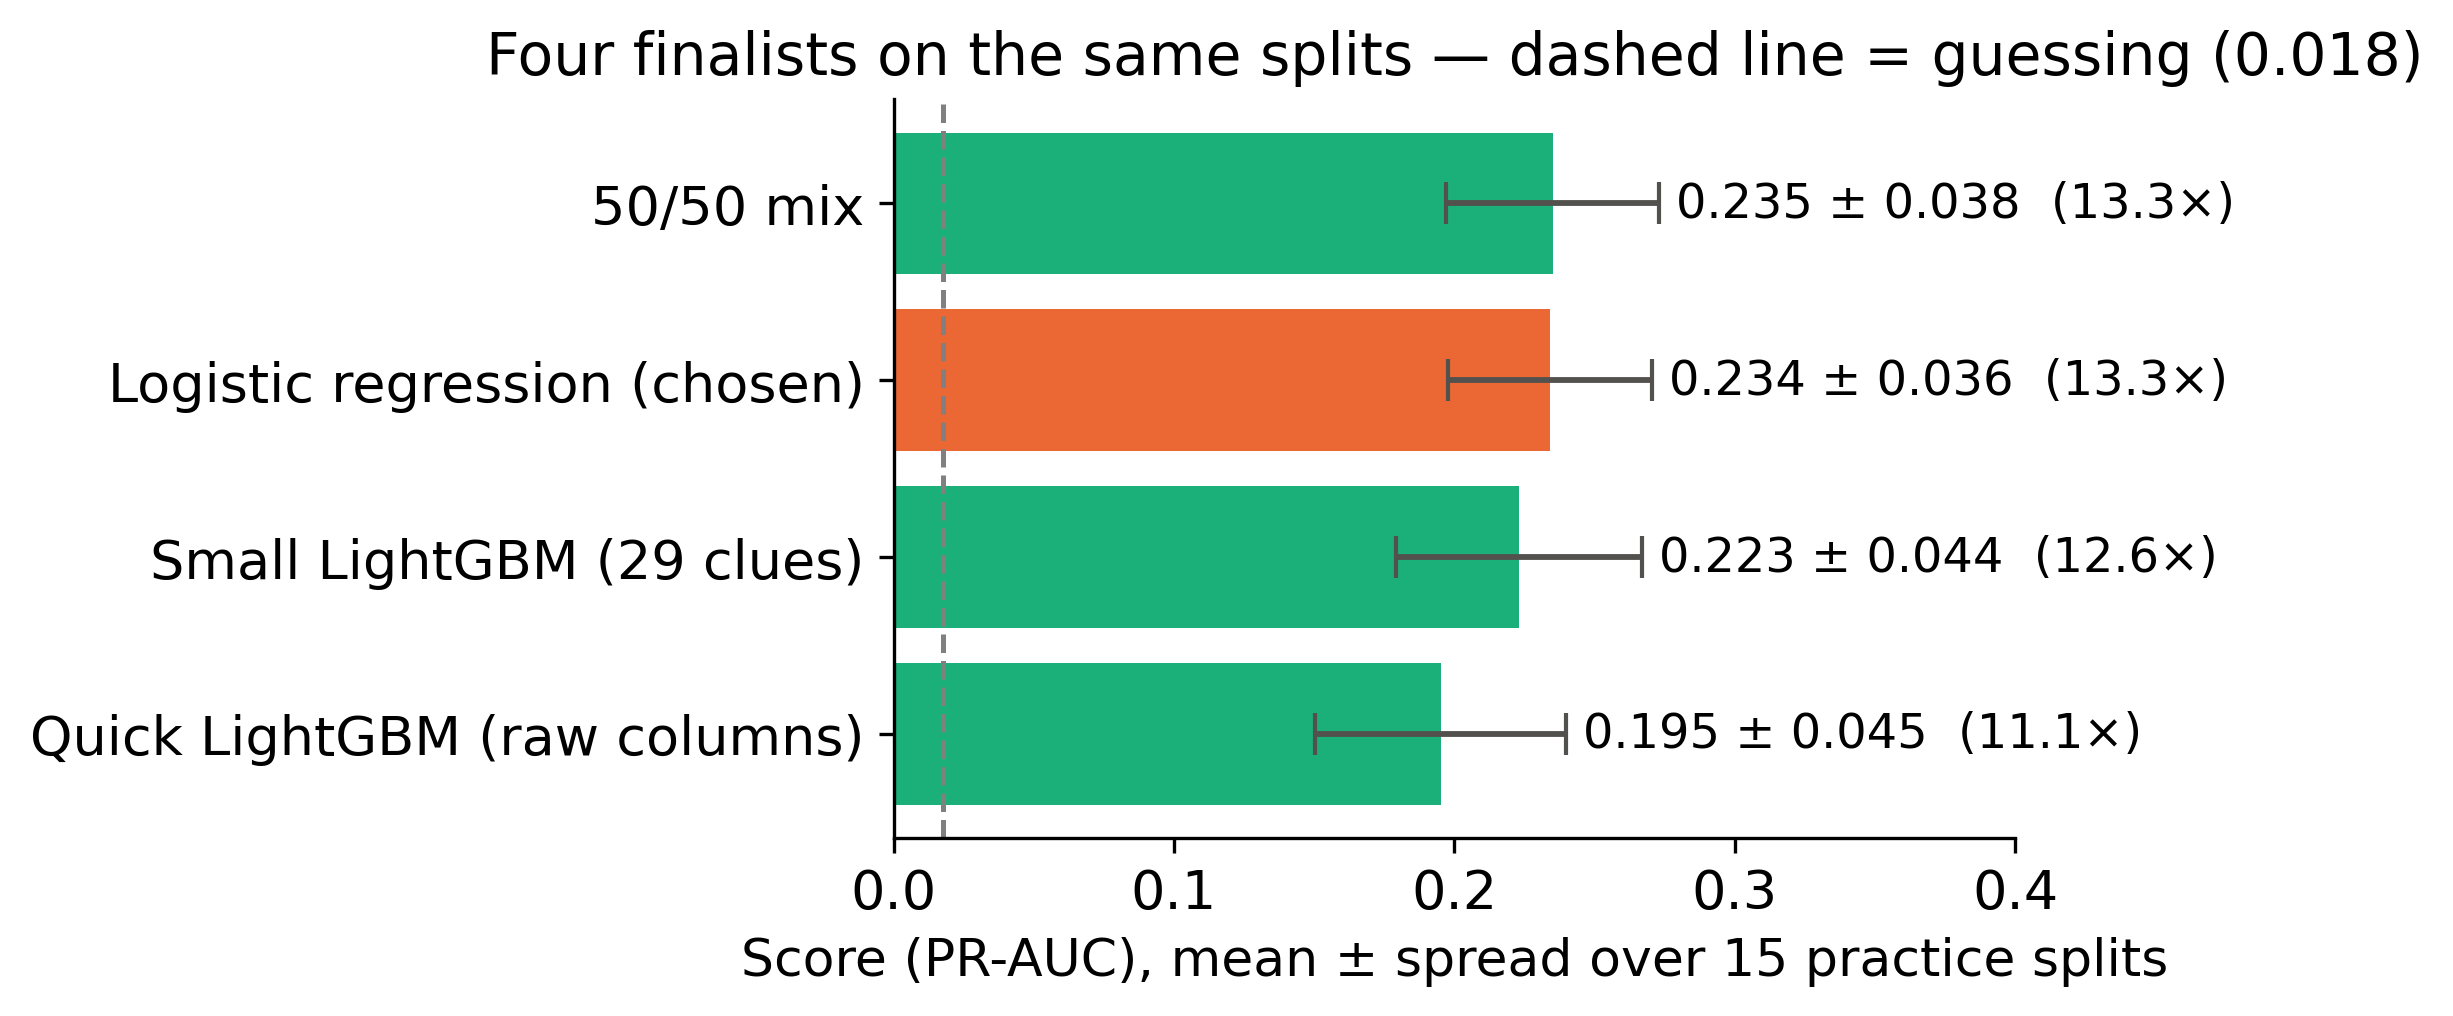
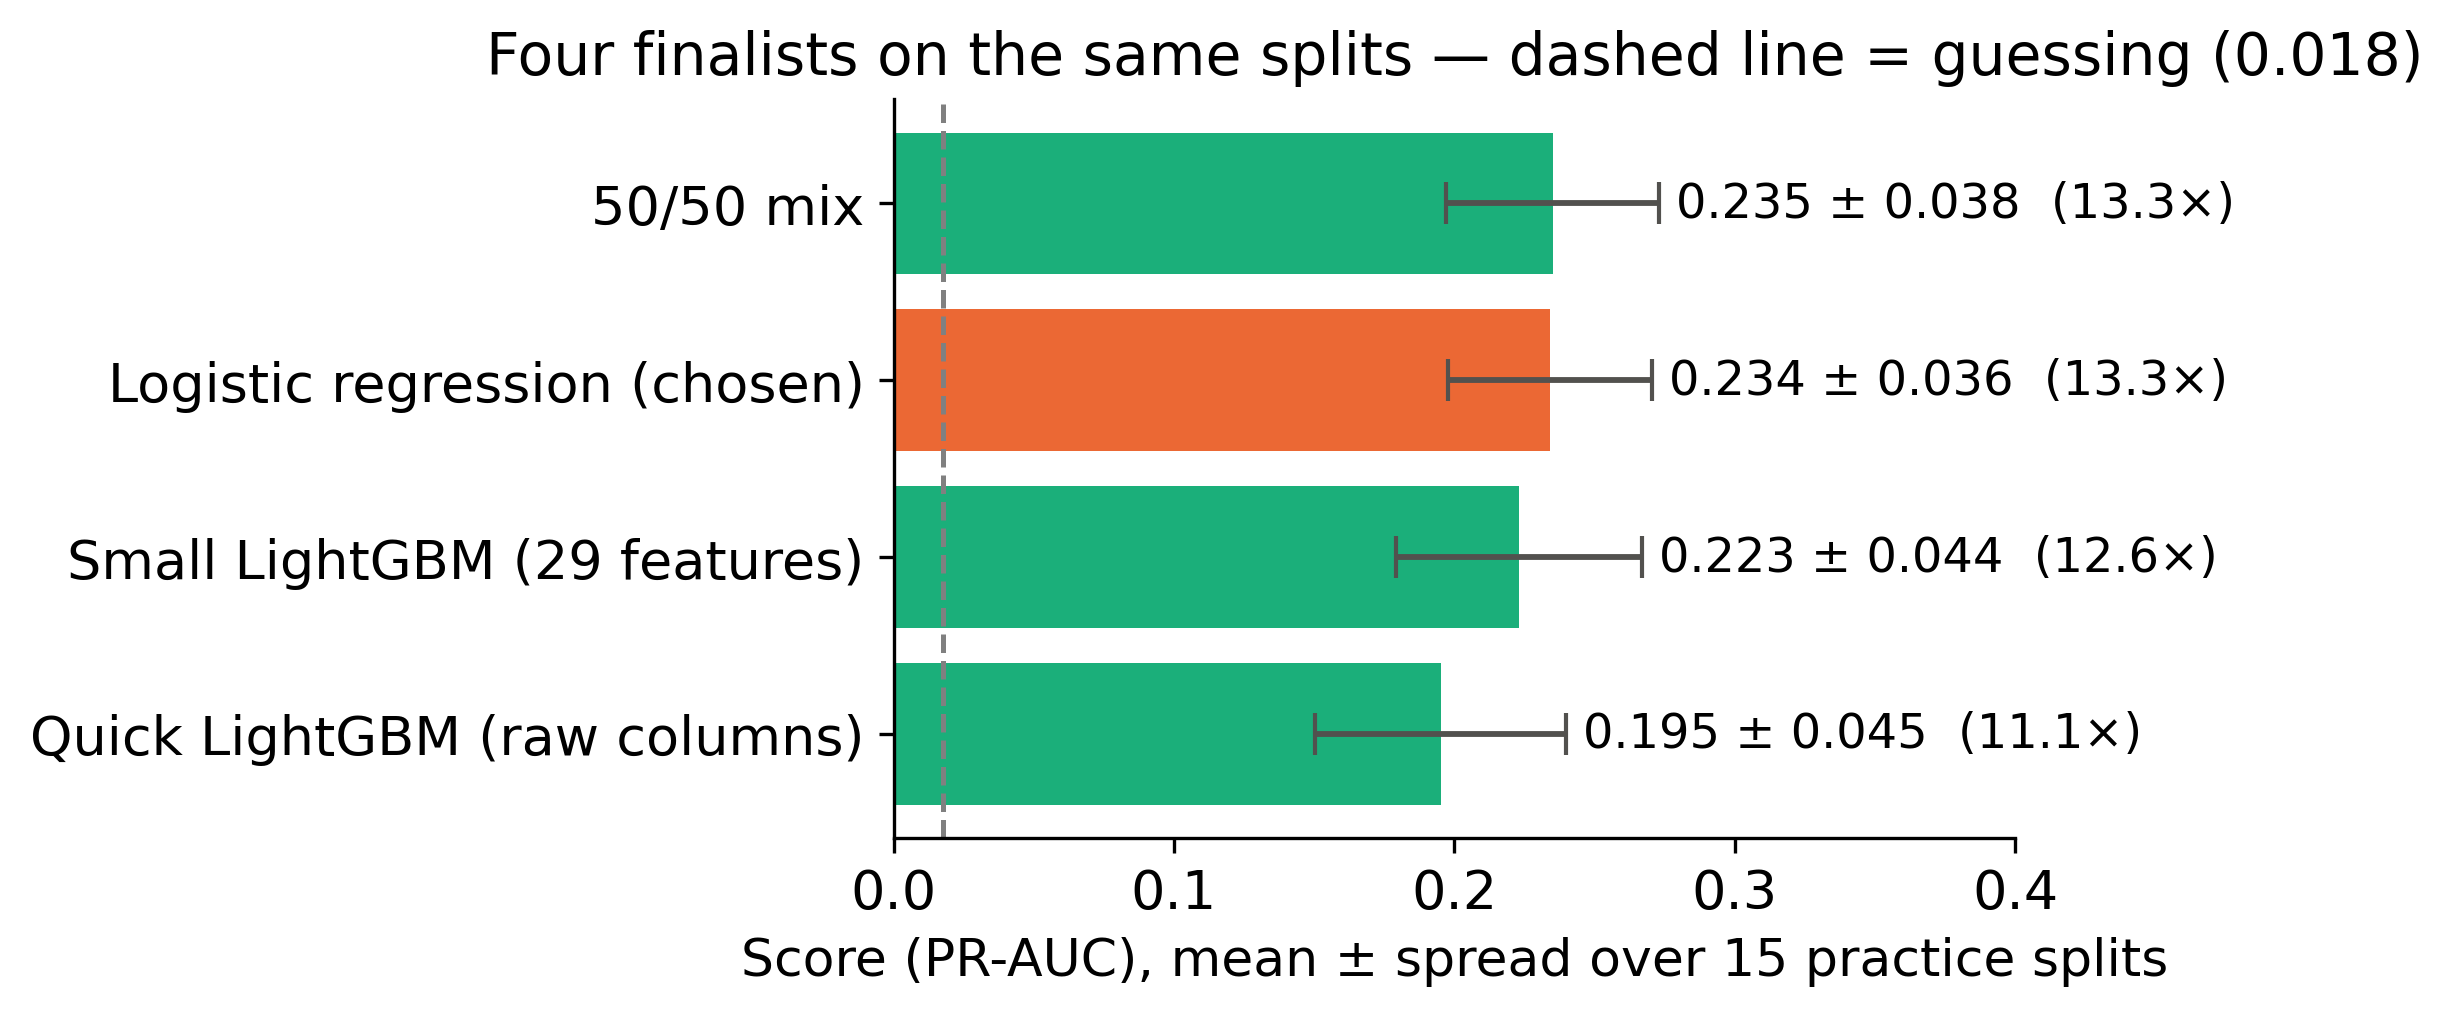
poster charts: 'clue' -> 'feature' wording; generator saved as src/poster_charts.py

Changed region(s): [[0.031, 0.5187, 0.3408, 0.5797]]

diff --git a/src/poster_charts.py b/src/poster_charts.py
@@ -1,0 +1,87 @@
+"""Poster-ready charts (large fonts, plain labels) for the one-page poster. Numbers identical to the notebook.
+Usage: .venv-image/bin/python src/poster_charts.py   -> writes docs/poster_charts/*.png at 300 dpi."""
+import os, sys, numpy as np, pandas as pd, matplotlib
+matplotlib.use("Agg")
+import matplotlib.pyplot as plt
+from matplotlib.ticker import FuncFormatter
+from sklearn.model_selection import StratifiedKFold
+
+ROOT = os.path.dirname(os.path.dirname(os.path.abspath(__file__))); sys.path.insert(0, ROOT)
+from src import models as M  # noqa: E402
+
+plt.rcParams.update({"font.size": 13, "axes.titlesize": 14, "axes.labelsize": 12.5})
+FRAUD_C, MODEL_C, GREY = "#eb6834", "#1baf7a", "#9a9a97"
+OUT = os.path.join(ROOT, "docs", "poster_charts"); os.makedirs(OUT, exist_ok=True)
+
+
+def tidy(ax):
+    [ax.spines[s].set_visible(False) for s in ("top", "right")]
+
+
+def model_comparison():  # numbers = notebook §6.1 table (3x5 CV)
+    res = pd.DataFrame({"model": ["Quick LightGBM (raw columns)", "Small LightGBM (29 features)", "Logistic regression (chosen)", "50/50 mix"],
+                        "mean": [0.1952, 0.2231, 0.2341, 0.2351], "std": [0.0448, 0.0439, 0.0365, 0.0380],
+                        "lift": ["11.1×", "12.6×", "13.3×", "13.3×"]})
+    fig, ax = plt.subplots(figsize=(7.2, 3.6))
+    ax.barh(res.model, res["mean"], xerr=res["std"], color=[FRAUD_C if "chosen" in m else MODEL_C for m in res.model],
+            capsize=5, error_kw=dict(lw=1.4, ecolor="#52514e"))
+    ax.axvline(0.0176, ls="--", c="gray", lw=1.2)
+    for i, (m, s, l) in enumerate(zip(res["mean"], res["std"], res["lift"])):
+        ax.text(m + s + 0.006, i, f"{m:.3f} ± {s:.3f}  ({l})", va="center", fontsize=11.5)
+    ax.set_xlim(0, 0.40); ax.set_xlabel("Score (PR-AUC), mean ± spread over 15 practice splits")
+    ax.set_title("Four finalists on the same splits — dashed line = guessing (0.018)"); tidy(ax)
+    plt.tight_layout(); plt.savefig(f"{OUT}/1_model_comparison.png", dpi=300, bbox_inches="tight"); plt.close()
+
+
+def money_saved():  # numbers = notebook §7.3 policies table
+    sel = pd.Series({"Our model: probability cut-off only": 78109, "Simple rule: flag everything over $500": 80200,
+                     "Quick model: probability × amount": 80613, "Our model: probability × amount (chosen)": 84309}).sort_values()
+    fig, ax = plt.subplots(figsize=(7.2, 3.2))
+    ax.barh(sel.index, sel.values, color=[FRAUD_C if "chosen" in n else GREY for n in sel.index])
+    for i, v in enumerate(sel.values):
+        ax.text(v + 800, i, f"${v:,.0f}", va="center", fontsize=12)
+    ax.set_xlim(0, 100000); ax.set_xticks([0, 25000, 50000, 75000, 100000])
+    ax.xaxis.set_major_formatter(FuncFormatter(lambda v, _: f"${v / 1000:.0f}k"))
+    ax.set_xlabel("Money saved per 10,000 payments, at \\$5 per check"); ax.set_title("Checking by probability × amount saves the most"); tidy(ax)
+    plt.tight_layout(); plt.savefig(f"{OUT}/2_money_saved.png", dpi=300, bbox_inches="tight"); plt.close()
+
+
+def features_on_off(train):  # computed from the feature matrix, no model
+    X = M.make_features(train); y = train.fraud
+    flags = {"new_device": "New device", "amt_gt500": "Payment over $500", "n1_ge4": "4+ payments in the last hour",
+             "n24_ge10": "10+ payments today", "newdev_young": "New device × young account", "burst_young": "Burst × young account"}
+    d = pd.DataFrame([(lab, 100 * y[X[c] >= 0.5].mean(), 100 * y[X[c] < 0.5].mean()) for c, lab in flags.items()],
+                     columns=["feature", "on", "off"]).sort_values("on")
+    fig, ax = plt.subplots(figsize=(7.2, 3.6)); yy = np.arange(len(d)); h = 0.38
+    ax.barh(yy - h / 2, d.off, h, color=GREY, label="feature off"); ax.barh(yy + h / 2, d.on, h, color=FRAUD_C, label="feature on")
+    for i, v in enumerate(d.on):
+        ax.text(v + 0.3, i + h / 2, f"{v:.1f}%", va="center", fontsize=11.5)
+    ax.axvline(100 * y.mean(), ls="--", c="gray", lw=1.2); ax.set_yticks(yy); ax.set_yticklabels(d.feature); ax.set_xlim(0, 22)
+    ax.set_xlabel("% of payments that are fraud (dashed line = 1.76% overall)")
+    ax.set_title("Combined features point to fraud far more than single ones"); ax.legend(frameon=False, loc="lower right"); tidy(ax)
+    plt.tight_layout(); plt.savefig(f"{OUT}/3_clues_on_off.png", dpi=300, bbox_inches="tight"); plt.close()
+
+
+def calibration(train):  # OOF logistic regression, 5-fold, as in notebook §7.1
+    X = M.make_features(train); y = train.fraud; p = np.zeros(len(y))
+    for a, b in StratifiedKFold(5, shuffle=True, random_state=42).split(X, y):
+        p[b] = M.CANDIDATES["logreg"]().fit(X.iloc[a], y.iloc[a]).predict_proba(X.iloc[b])[:, 1]
+    bins = pd.qcut(p, 10, duplicates="drop")
+    cal = pd.DataFrame({"Model predicted": pd.Series(p).groupby(bins, observed=True).mean(),
+                        "Actually happened": y.groupby(bins, observed=True).mean()}) * 100
+    cal.index = [str(i) for i in range(1, len(cal) + 1)]
+    ax = cal.plot(kind="bar", figsize=(7.2, 3.4), rot=0, width=0.75, color=[GREY, MODEL_C])
+    ax.set_xlabel("Payments sorted into 10 risk groups, lowest (1) to highest (10)"); ax.set_ylabel("Fraud rate (%)")
+    ax.set_title("Predicted vs actual fraud rate: matching bars = honest percentages"); ax.legend(frameon=False); tidy(ax)
+    plt.tight_layout(); plt.savefig(f"{OUT}/4_calibration.png", dpi=300, bbox_inches="tight"); plt.close()
+    print("max calibration gap (pp):", round(float((cal["Model predicted"] - cal["Actually happened"]).abs().max()), 2))
+
+
+if __name__ == "__main__":
+    train = pd.read_csv(os.path.join(ROOT, "data/raw/track2/train.csv"))
+    which = sys.argv[1:] or ["all"]
+    if "all" in which or "1" in which: model_comparison()
+    if "all" in which or "2" in which: money_saved()
+    if "all" in which or "3" in which: features_on_off(train)
+    if "all" in which or "4" in which: calibration(train)
+    print("written:", sorted(os.listdir(OUT)))
